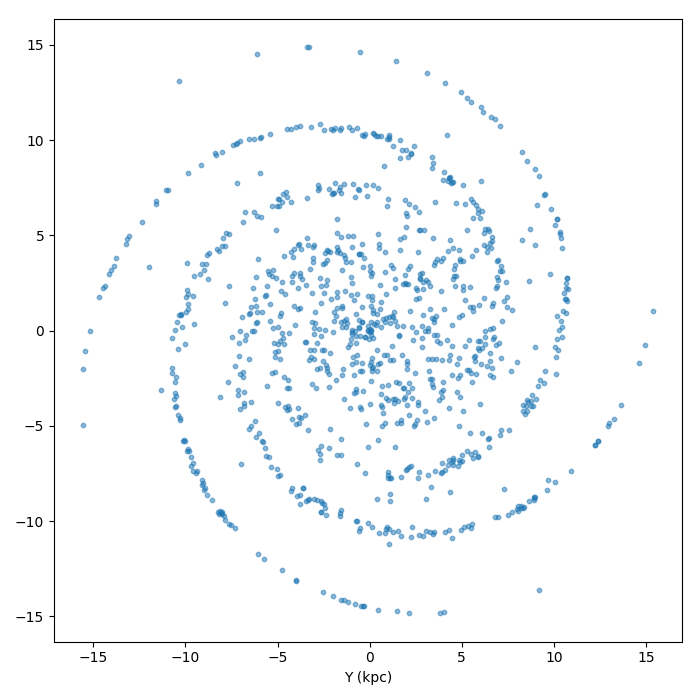
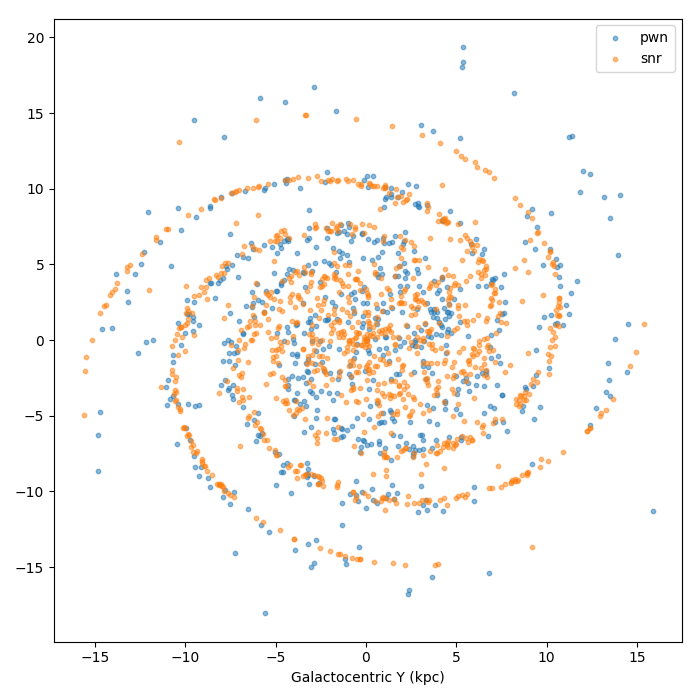
update

diff --git a/sky_model_checks/source_parameter_distributions.py b/sky_model_checks/source_parameter_distributions.py
@@ -102,6 +102,7 @@ def add_source_info_spectral(spectral, row):
 
 
 def load_sky_models():
+    print('Loading data ...')
     data = []
 
     tag = 'gamma-cat'
@@ -120,13 +121,20 @@ def load_sky_models():
     filename = '../sky_model/pwn/ctadc_skymodel_gps_sources_pwn.xml'
     models = gammalib.GModels(filename)
     table = Table.read(filename.replace('.xml', '_summary.ecsv'), format='ascii.ecsv')
-    data.append(dict(tag=tag, filename=filename, models=models, table=table))
+    filename = '../sky_model/pwn/ctadc_skymodel_gps_sources_pwn.ecsv'
+    table_in = Table.read(filename, format='ascii.ecsv')
+    table_in['POS_X'] = table_in['x']
+    table_in['POS_Y'] = table_in['y']
+    table_in['POS_Z'] = table_in['z']
+    data.append(dict(tag=tag, filename=filename, models=models, table=table, table_in=table_in))
 
     tag = 'snr'
     filename = '../sky_model/snrs/ctadc_skymodel_gps_sources_snr_2.xml'
     models = gammalib.GModels(filename)
     table = Table.read(filename.replace('.xml', '_summary.ecsv'), format='ascii.ecsv')
-    data.append(dict(tag=tag, filename=filename, models=models, table=table))
+    filename = '../sky_model/snrs/ctadc_skymodel_gps_sources_snr_2.ecsv'
+    table_in = Table.read(filename, format='ascii.ecsv')
+    data.append(dict(tag=tag, filename=filename, models=models, table=table, table_in=table_in))
 
     tag = 'binaries'
     filename = '../sky_model/binaries/ctadc_skymodel_gps_sources_binaries.xml'
@@ -270,27 +278,51 @@ def plot_logn_logs():
     fig.savefig(filename)
 
 
-def plot_galactic_xy():
+def plot_galactic_xy(data):
     fig, ax = plt.subplots(figsize=(7, 7))
 
-    filename = '../sky_model/snrs/ctadc_skymodel_gps_sources_snr_2.ecsv'
-    table = Table.read(filename, format='ascii.ecsv')
-    table.info('stats')
+    for component in data:
+        if component['tag'] not in ['snr', 'pwn']:
+            continue
 
-    x = table['POS_X'].quantity.to('kpc').value
-    y = table['POS_Y'].quantity.to('kpc').value
-
-    ax.scatter(x, y, label='snr', s=10, alpha=0.5)
+        table = component['table_in']
+        x = table['POS_X'].quantity.to('kpc').value
+        y = table['POS_Y'].quantity.to('kpc').value
+        ax.scatter(x, y, label=component['tag'], s=10, alpha=0.5)
 
     # ax.set_xlim(0, 2)
-    ax.set_xlabel('X (kpc)')
-    ax.set_xlabel('Y (kpc)')
+    ax.set_xlabel('Galactocentric X (kpc)')
+    ax.set_xlabel('Galactocentric Y (kpc)')
+    ax.legend(loc='best')
+    fig.tight_layout()
+
+    filename = 'ctadc_skymodel_gps_sources_galactic_xy.png'
+    print('Writing {}'.format(filename))
+    fig.savefig(filename)
+
+
+def plot_galactic_z(data):
+    fig, ax = plt.subplots()
+
+    for component in data:
+        if component['tag'] not in ['snr', 'pwn']:
+            continue
+
+        table = component['table_in']
+        bins = np.arange(-2, 2, 0.05)
+        vals = table['POS_Z'].quantity.to('kpc').value
+        ax.hist(
+            vals, bins=bins, histtype='step',
+            alpha=0.8, normed=True, label=component['tag'],
+        )
+
+    # ax.set_xlim(0, 2)
+    ax.set_xlabel('Galactocentric Z (kpc)')
+    ax.legend(loc='best')
     fig.tight_layout()
 
 
-
-
-    filename = 'ctadc_skymodel_gps_sources_galactic_xy.png'
+    filename = 'ctadc_skymodel_gps_sources_galactic_z.png'
     print('Writing {}'.format(filename))
     fig.savefig(filename)
 
@@ -304,8 +336,9 @@ if __name__ == '__main__':
     # plot_glon_distribution(data)
     # plot_glat_distribution(data)
 
-    plot_size_distribution(data)
+    # plot_size_distribution(data)
 
-    plot_galactic_xy()
+    plot_galactic_xy(data)
+    plot_galactic_z(data)
 
     # plot_logn_logs()

diff --git a/sky_model_checks/README.md b/sky_model_checks/README.md
@@ -21,8 +21,10 @@ image_sources        11 6.27654769846e-11
   * [ctadc_skymodel_gps_sources_sky_positions_gps.png](ctadc_skymodel_gps_sources_sky_positions_gps.png)
 * GLON: [ctadc_skymodel_gps_sources_glon.png](ctadc_skymodel_gps_sources_glon.png)
 * GLAT: [ctadc_skymodel_gps_sources_glat.png](ctadc_skymodel_gps_sources_glat.png)
-* Distance: TODO 
-* Galactic top-down view: [ctadc_skymodel_gps_sources_galactic_xy.png](ctadc_skymodel_gps_sources_galactic_xy.png)
+* Positions in the Galaxy:
+  * [ctadc_skymodel_gps_sources_galactic_xy.png](ctadc_skymodel_gps_sources_galactic_xy.png)
+  * [ctadc_skymodel_gps_sources_galactic_z.png](ctadc_skymodel_gps_sources_galactic_z.png)
+* Distance: TODO
 
 ### Spatial
 
